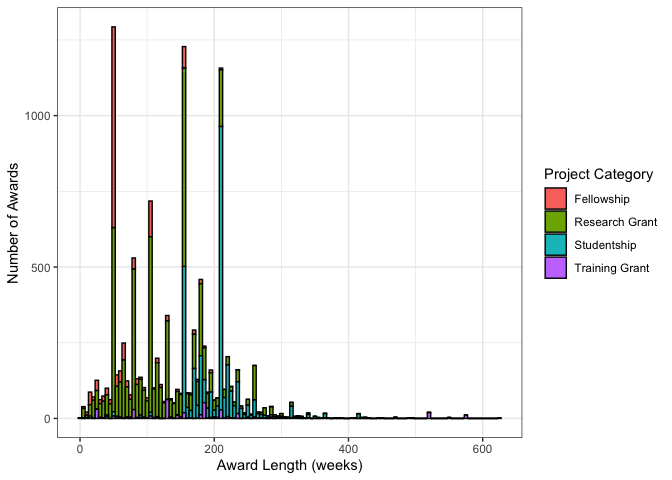
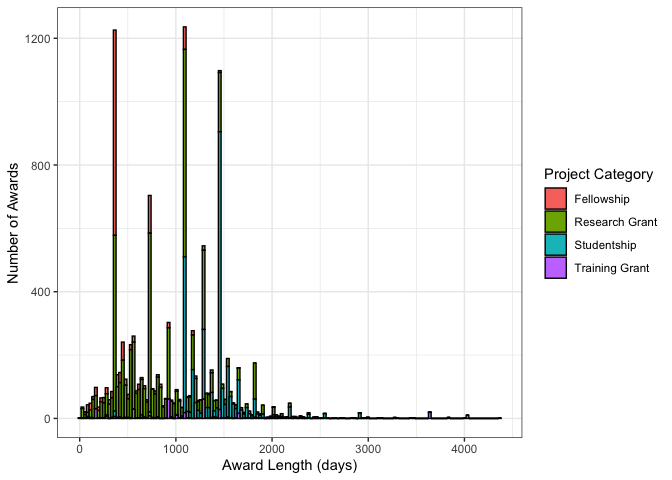
Added table for active lengthof awards and a % graph.
Former-commit-id: a57eb91acea282b32d56df011cadf66ba5f36f35

diff --git a/Src/ESRC.md b/Src/ESRC.md
@@ -1,7 +1,7 @@
 ESRC Data
 ================
 Mario Antonioletti,
-13/10/21
+14/10/21
 
 -   [Overall expenditure](#overall-expenditure)
     -   [All projects](#all-projects)
@@ -13,8 +13,6 @@ Mario Antonioletti,
     -   [Award length distribution](#award-length-distribution)
         -   [All projects](#all-projects-2)
         -   [Active projects only](#active-projects-only-1)
-    -   [Geographical distribution of
-        awards](#geographical-distribution-of-awards)
         -   [All projects](#all-projects-3)
         -   [Active projects](#active-projects-1)
     -   [Funding by lead organisation](#funding-by-lead-organisation)
@@ -78,18 +76,42 @@ This information corresponds to projects that are classified as
 
 ### All projects
 
-The award length distribution of the award lengths binned into 4-week
+The award length distribution of the award lengths binned into 28-day
 periods is shown below.
 ![](ESRC_files/figure-gfm/award_lengths-1.png)<!-- -->
 
 ### Active projects only
 
 The same information as provided above but only for *Active* projects.
-The maximum funding period corresponds to 626 weeks.
+The maximum funding period corresponds to 4382 days.
 
 ![](ESRC_files/figure-gfm/award_lengths_active-1.png)<!-- -->
 
-## Geographical distribution of awards
+The top length of awards lie by project category in days is tabulated
+below.
+
+| Number of days | Project Category | Number of projects |
+|---------------:|:-----------------|-------------------:|
+|           1460 | Studentship      |                624 |
+|           1095 | Research Grant   |                204 |
+|           1095 | Studentship      |                186 |
+|            364 | Fellowship       |                178 |
+|           1094 | Studentship      |                164 |
+|           1277 | Studentship      |                144 |
+|            364 | Research Grant   |                 93 |
+|           1460 | Research Grant   |                 88 |
+|           1552 | Studentship      |                 79 |
+|           1461 | Studentship      |                 73 |
+|           1187 | Studentship      |                 72 |
+|           1094 | Research Grant   |                 70 |
+|            729 | Research Grant   |                 57 |
+|           1186 | Studentship      |                 53 |
+|           1642 | Studentship      |                 52 |
+
+Percentage of award types by time length.
+
+![](ESRC_files/figure-gfm/award_lengths_active_fill-1.png)<!-- --> ##
+Geographical distribution of awards
 
 ### All projects
 
